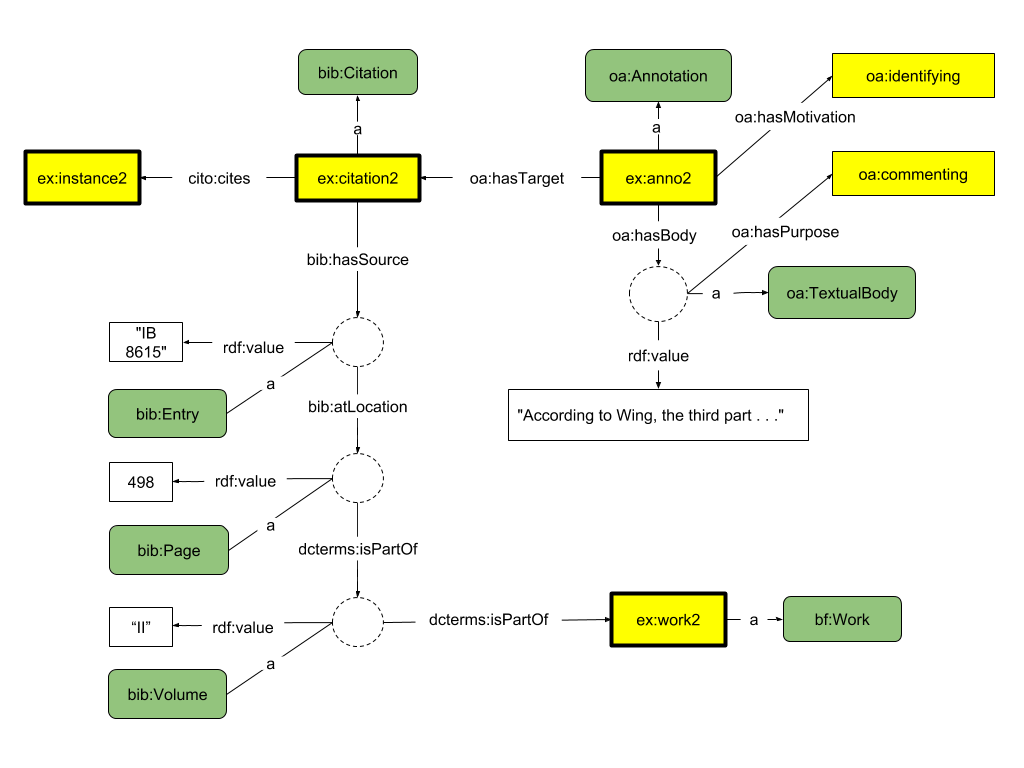
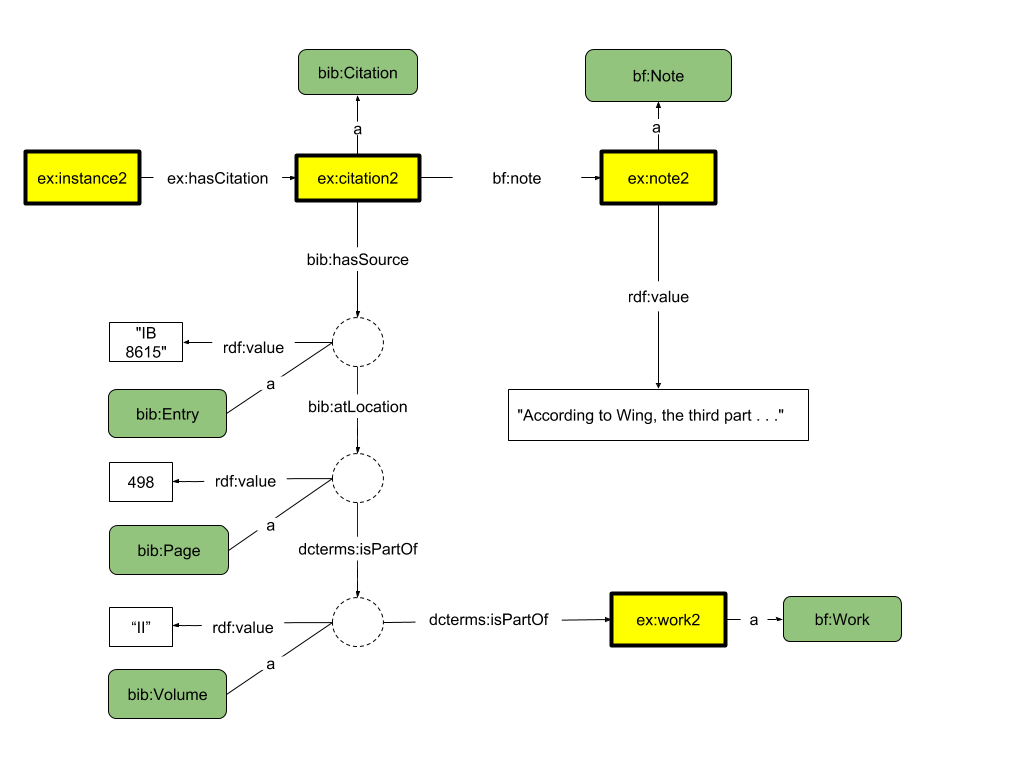
Merge pull request #31 from timathom/citations-patch-2
Final updates to citations proposal.
# Conflicts:
#	modeling_recommendations/bibliographic_citations.md
#	modeling_recommendations/modeling_diagrams/citations_useCase_1.png
#	modeling_recommendations/modeling_diagrams/citations_useCase_2.png
#	modeling_recommendations/modeling_diagrams/citations_useCase_3.png
#	modeling_recommendations/modeling_diagrams/citations_useCase_4.png

diff --git a/modeling_recommendations/bibliographic_citations.md b/modeling_recommendations/bibliographic_citations.md
@@ -1,14 +1,14 @@
 Bibliographic Citations for Rare Materials Cataloging
 =====================================================
-RareMat, 2017-08-08
+RareMat, 2018-01-12
 
 Table of Contents
 > - [Overview](#overview)
 > - [Entities to Be Modeled](#entities)
 > - [Summary of Recommendations](#recommendations)
+> - [Areas for Future Research]
 > - [Recommended Classes](#classes)
 > - [Recommended Properties](#properties)
-> - [Recommended Named Individuals](#individuals)
 > - [Diagrams](#diagrams)
 
 
@@ -22,21 +22,19 @@ In total, there are four use cases to be modeled:
 >1.  A citation is found, and the cataloger does not add commentary on the citation.
 >2.  A citation is found, and the cataloger adds commentary on the citation.
 >3.  A citation is not found, and the cataloger does not add commentary.
->4.  A citation is not found, but the cataloger adds commentary about the reference source or a related citation.
+>4.  A citation is not found, and the cataloger adds further commentary about the reference source or a related citation.
 
-In addition, there is a need to model dates, identifiers, and other data related to citations. The proposed model will follow the general bibliotek-o modeling practices for dates, identifiers, and any other core data elements.
+There is also a need to model dates, identifiers, and other data related to citations. The proposed model will follow the general BIBFRAME modeling practices for dates, identifiers, and any other core data elements.
 
-To address these four use cases, a new class should be created to represent bibliographic citation entities (**bib:Citation**). A citation functions as an intermediate node between a reference source (bf:Work), and a resource of interest to the cataloger (typically a bf:Item or bf:Instance).
+To address these four use cases, a new class should be created to represent bibliographic citation entities (**ex:Citation**). A citation functions as an intermediate node between a reference source (bf:Work), and a resource of interest to the cataloger (typically a bf:Item or bf:Instance).
 
-A citation is related to a resource of interest by the property **cito:cites** (inverse cito:isCitedBy) and to the citing work by the property **bib:hasSource** (inverse bib:isSourceOf).
+A citation is related to a resource of interest by the property **ex:hasCitation** (inverse ex:isCitationOf) and to the citing work by the property **ex:hasSource** (inverse ex:isSourceOf).
 
-A citation may link directly to its source bf:Work, or it may link indirectly to the source through a specific location, modeled as a hierarchical chain proceeding from the most specific location up to the citing work. For example, a citation entity may be listed as a specific **bib:Entry** in a citing source, which may be located (**bib:atLocation**) on a **bib:Page**, which may be part of (**dcterms:isPartOf**) a **bib:Volume**, which may be part of (**dcterms:isPartOf**) the citing source (bf:Work).
+A citation may link directly to its source bf:Work, or it may link indirectly to the source through a specific location, modeled as a hierarchical chain proceeding from the most specific location up to the citing work. For example, a citation entity may be listed as a specific **ex:Entry** in a citing source, which may be located (**bf:place**) on a **ex:Page**, which may be part of (**bf:partOf**) a **ex:Volume**, which may be part of (**bf:partOf**) the citing source (bf:Work).
 
-Cataloger comments on citations are constructed using the Web Annotation model, with the citation resource as the target of the annotation.
+Cataloger comments on citations are constructed using the BIBFRAME notes.
 
-A negative citation is also modeled as an **oa:Annotation**, with the motivation **bib:assertingCitationNotFound** provided as the object of the property **oa:hasPurpose**, on the annotation body.
-
-Comments may also be added to negative citations using the Web Annotation model. A simple textual comment may be added as a second annotation body. If the cataloger wishes to include a related citation (for example, to a variant edition of a resource), a separate citation resource may be created (see diagram 4.2, below).
+A negative citation is also modeled as an **bf:Note**, with the value "not found."
 
 <a name="entities">Entities to Be Modeled</a>
 ----------------------
@@ -44,180 +42,86 @@ Comments may also be added to negative citations using the Web Annotation model.
 |:-------------|:-------------|
 | Resource of interest to cataloger; typically instance or item but may also be a work | bf:Instance, bf:Item, bf:Work |
 | Reference source    | bf:Work      |
-| Cataloger commentary | oa:Annotation      |
-| Citation | bib:Citation     |
+| Cataloger commentary | bf:Note      |
+| Citation | ex:Citation     |
 
 <a name="recommendations">Summary of Recommendations</a>
 --------------------------
 
-1.  Mint additional annotation motivations:  **bib:asserting**, **bib:assertingSourceDataNotFound**, and **bib:assertingCitationNotFound** (listed in order from broadest to narrowest) to represent negative citations.
+1.  Create a new class, **ex:Citation**, to represent bibliographic citations.
 
-2.  Create a new class, **bib:Citation**, to represent bibliographic citations.
+2.  Create a new property, **ex:hasCitation** (inverse ex:isCitationOf) to link a citation to a cited resource. 
 
-3.  Optionally, the location within a citing source may also be specified. Create new classes, **bib:Volume**, **bib:Page**, and **bib:Entry**, to record the location of a citation.
+2.  Optionally, the location within a citing source may also be specified. Create new classes, **ex:Volume**, **ex:Page**, and **ex:Entry**, to record the location of a citation.
 
-4.  Consider other location designators as appropriate.
+3.  Consider other location designators as appropriate.
+
+<a name="future">Areas for Future Research</a>
+--------------------------
+Earlier versions of this recommendation attempted differing levels of integration with the Citation Typing Ontology ([CiTO](http://www.sparontologies.net/ontologies/cito)), a [SPAR](http://www.sparontologies.net/) ontology focused on modeling citations. A second SPAR ontology, the Bibliographic Reference Ontology ([BiRO](http://www.sparontologies.net/ontologies/biro)), is also relevant to the bibliographic citations use case in RareMat. However, the precise relationship, if any, among RareMat citations, CiTO citations, and BiRO bibliographic references is an area that requires further research and clarification and lies beyond the scope of the current proposal.
 
 <a name="classes">Recommended Classes</a>
 -------------------
 
-**bib:Citation**
+**ex:Citation**
 > - **Label:** Citation
-> - **URI:** TBD
+> - **URI:** http://example.org/Citation
 > - **Subclass of**:
 > - **Definition:** A single citation within a bibliographic source.
 > - **Comment:**
 
-
-**bib:Entry**
+**ex:Entry**
 > - **Label:** Entry
-> - **URI:** TBD
+> - **URI:** http://example.org/Entry
 > - **Subclass of**:
 > - **Definition:** A specific entry that locates a citation within a bibliographic source.
 > - **Comment:** Used in parsing out hierarchically structured location designators for citations.
 
-
-**bib:Page**
+**ex:Page**
 > - **Label:** Page
-> - **URI:** TBD
+> - **URI:** http://example.org/Page
 > - **Subclass of**:
 > - **Definition:** A single page within a resource.
 > - **Comment:** Used in any page-level description, as well as in parsing out hierarchically structured location designators for citations.
 
-
-**bib:Volume**
+**ex:Volume**
 > - **Label:** Volume
-> - **URI:** TBD
+> - **URI:** http://example.org/Volume
 > - **Subclass of**:
 > - **Definition:** A single bibliographic or physical volume of a resource.
 > - **Comment:** Used in any volume-level description, as well as in parsing out hierarchically structured location designators for citations.
-
-**oa:Annotation**
-> - **Label:** Annotation
-> - **URI:** [*http://www.w3.org/ns/oa/#Annotation*](http://www.w3.org/ns/oa#Annotation)
-> - **Definition:** The class for Web Annotations.
-> - **Comment:** NA
-
-**oa:Motivation**
-> - **Label:** Motivation
-> - **URI:** [*http://www.w3.org/ns/oa/#Motivation*](http://www.w3.org/ns/oa#Motivation)
-> - **Definition:** The Motivation class is used to record the user's intent or motivation for the creation of the Annotation, or the inclusion of the body or target, that it is associated with.
-> - **Comment:** NA
-
-**oa:SpecificResource**
-> - **Label:** Specific resource
-> - **URI:** [*http://www.w3.org/ns/oa/#SpecificResource*](http://www.w3.org/ns/oa#SpecificResource)
-> - **Definition:** Instances of the SpecificResource class identify part of another resource (referenced with oa:hasSource), a particular representation of a resource, a resource with styling hints for renders, or any combination of these, as used within an Annotation.
-> - **Comment:** NA
-
-**oa:TextualBody**
-> - **Label:** Textual body
-> - **URI:** [*http://www.w3.org/ns/oa/#TextualBody*](http://www.w3.org/ns/oa#TextualBody)
-> - **Definition:** NA
-> - **Comment:** NA
 
 
 <a name="properties">Recommended Properties</a>
 ----------------------
 
-**bib:atLocation**
-> - **Label:** at location
-> - **URI:** [*http://bibliotek-o.org/1.1/ontology/atLocation*](http://bibliotek-o.org/1.1/ontology/atLocation)
+**bf:place**
+> - **Label:** Place
+> - **URI:** [*http://id.loc.gov/ontologies/bibframe/place*](http://id.loc.gov/ontologies/bibframe/place)
 > - **Domain:** Unspecified
-> - **Range:** prov:Location
-> - **Definition:** The resource being described is at the specified location.
+> - **Range:** http://id.loc.gov/ontologies/bibframe/Place
+> - **Definition:** Geographic location or place entity associated with a resource or element of description, such as the place associated with the publication, printing, distribution, issue, release or production of a resource, place of an event.
 
-**bib:hasSource**
+**ex:hasSource**
 > - **Label:** has source
-> - **URI:** [*http://bibliotek-o.org/1.1/ontology/hasSource*](http://bibliotek-o.org/1.1/ontology/hasSource)
+> - **URI:** [*http://example.org/hasSource*](http://example.org/hasSource)
 > - **Domain:** Unspecified
 > - **Range:** Unspecified
-> - **Inverse:** bib:isSourceOf
+> - **Inverse:** ex:isSourceOf
 > - **Definition:** Relates this resource to the source from which it was derived.
 
-**cito:cites**
-> - **Label:** cites
-> - **URI:** [*http://purl.org/spar/cito/cites*](http://purl.org/spar/cito/cites)
+**ex:hasCitation**
+> - **Label:** has citation
+> - **URI:** [*http://example.org/hasCitation*](http://example.org/hasCitation)
 > - **Domain:** Unspecified
 > - **Range:** Unspecified
-> - **Inverse:** cito:isCitedBy
-> - **Definition:** The citing entity cites the cited entity, either directly and explicitly (as in the reference list of a journal article), indirectly (e.g. by citing a more recent paper by the same group on the same topic), or implicitly (e.g. as in artistic quotations or parodies, or in cases of plagiarism).
+> - **Inverse:** ex:isCitationOf
+> - **Definition:** The resource that is the focus of description (e.g., a bf:Item or bf:Instance) has a citation located in a standard reference source.
 
-**oa:hasBody**
-> - **Label:** has body
-> - **URI:** [*http://www.w3.org/ns/oa/#hasBody*](http://www.w3.org/ns/oa#hasBody)
-> - **Domain:** oa:Annotation
-> - **Definition:** The object of the relationship is a resource that is a body of the Annotation.
-
-**oa:motivatedBy**
-> - **Label:** motivated by
-> - **URI:** [*http://www.w3.org/ns/oa/#motivatedBy*](http://www.w3.org/ns/oa#motivatedBy)
-> - **Domain:** oa:Annotation
-> - **Range:** oa:Motivation
-> - **Definition:** The relationship between an Annotation and a Motivation that describes the reason for the Annotation's creation.
-
-**oa:hasPurpose**
-> - **Label:** has purpose
-> - **URI:** [*http://www.w3.org/ns/oa/#hasPurpose*](http://www.w3.org/ns/oa#hasPurpose)
-> - **Range:** oa:Motivation
-> - **Definition:** The purpose served by the resource in the Annotation.
-
-**oa:hasSource**
-> - **Label:** at location
-> - **URI:** [*http://www.w3.org/ns/oa/#hasSource*](http://www.w3.org/ns/oa#hasSource)
-> - **Definition:** The resource that the ResourceSelection, or its subclass SpecificResource, is refined from, or more specific than.
-
-**oa:hasTarget**
-> - **Label:** has target
-> - **URI:** [*http://www.w3.org/ns/oa/#hasTarget*](http://www.w3.org/ns/oa#hasTarget)
-> - **Domain:** oa:Annotation
-> - **Definition:** The relationship between an Annotation and its Target.
-
-**dcterms:isPartOf**
+**bf:partOf**
 > - **Label:** Is Part Of
-> - **URI:** [*http://purl.org/dc/terms/isPartOf*](http://purl.org/dc/terms/isPartOf)
-> - **Definition:** A related resource in which the described resource is physically or logically included.
-
-
-<a name="individuals">Recommended Named Individuals</a>
------------------------------
-**bib:asserting**
-> - **Label:** asserting
-> - **URI:** TBD
-> - **Named individual of**: oa:Motivation
-> - **Narrower of**: NA
-> - **Definition:** The motivation for when the user intends to make a claim or assertion.
-> - **Comment**: NA
-
-**bib:assertingSourceDataNotFound**
-> - **Label:** asserting source data not found
-> - **URI:** TBD
-> - **Named individual of**: oa:Motivation
-> - **Narrower of**: bib:asserting
-> - **Definition:** The motivation for when the user intends to state that no data was found to support an assertion.
-> - **Comment**: skos:narrower of the oa:Motivation named individual bib:asserting.
-
-**bib:assertingCitationNotFound**
-> - **Label:** asserting citation not found
-> - **URI:** TBD
-> - **Named individual of**: oa:Motivation
-> - **Narrower of**: bib:assertingSourceDataNotFound
-> - **Definition:** The motivation for when the user intends to state that no citation was found in a source.
-> - **Comment**: skos:narrower of the oa:Motivation named individual bib:assertingSourceDataNotFound.
-
-**oa:commenting**
-> - **Label:** commenting
-> - **URI:** http://www.w3.org/ns/oa/#commenting
-> - **Named individual of**: oa:Motivation
-> - **Definition:** The motivation for when the user intends to comment about the Target.
-> - **Comment**:
-
-**oa:identifying**
-> - **Label:** identifying
-> - **URI:**[*http://www.w3.org/ns/oa/#identifying*](http://www.w3.org/ns/oa#identifying)
-> - **Named individual of**: oa:Motivation
-> - **Definition:** The motivation for when the user intends to assign an identity to the Target or identify what is being depicted or described in the Target.
-> - **Comment**:
+> - **URI:** [*http://id.loc.gov/ontologies/bibframe/hasPart*](http://id.loc.gov/ontologies/bibframe/hasPart)
+> - **Definition:** Resource that is included either physically or logically in the described resource
 
 
 <a name="diagrams">Diagrams</a>
@@ -232,8 +136,5 @@ Comments may also be added to negative citations using the Web Annotation model.
 ### Use case 3: Negative citation (without comment).
 ![Use Case 3](/modeling_recommendations/modeling_diagrams/citations_useCase_3.png)
 
-### Use case 4.1: Negative citation with comment.
-![Use Case 4.1](/modeling_recommendations/modeling_diagrams/citations_useCase_4_1.png)
-
-### Use case 4.2: Negative citation plus additional citation.
-![Use Case 4.2](/modeling_recommendations/modeling_diagrams/citations_useCase_4_2.png)
+### Use case 4: Negative citation with comment.
+![Use Case 4.1](/modeling_recommendations/modeling_diagrams/citations_useCase_4.png)
